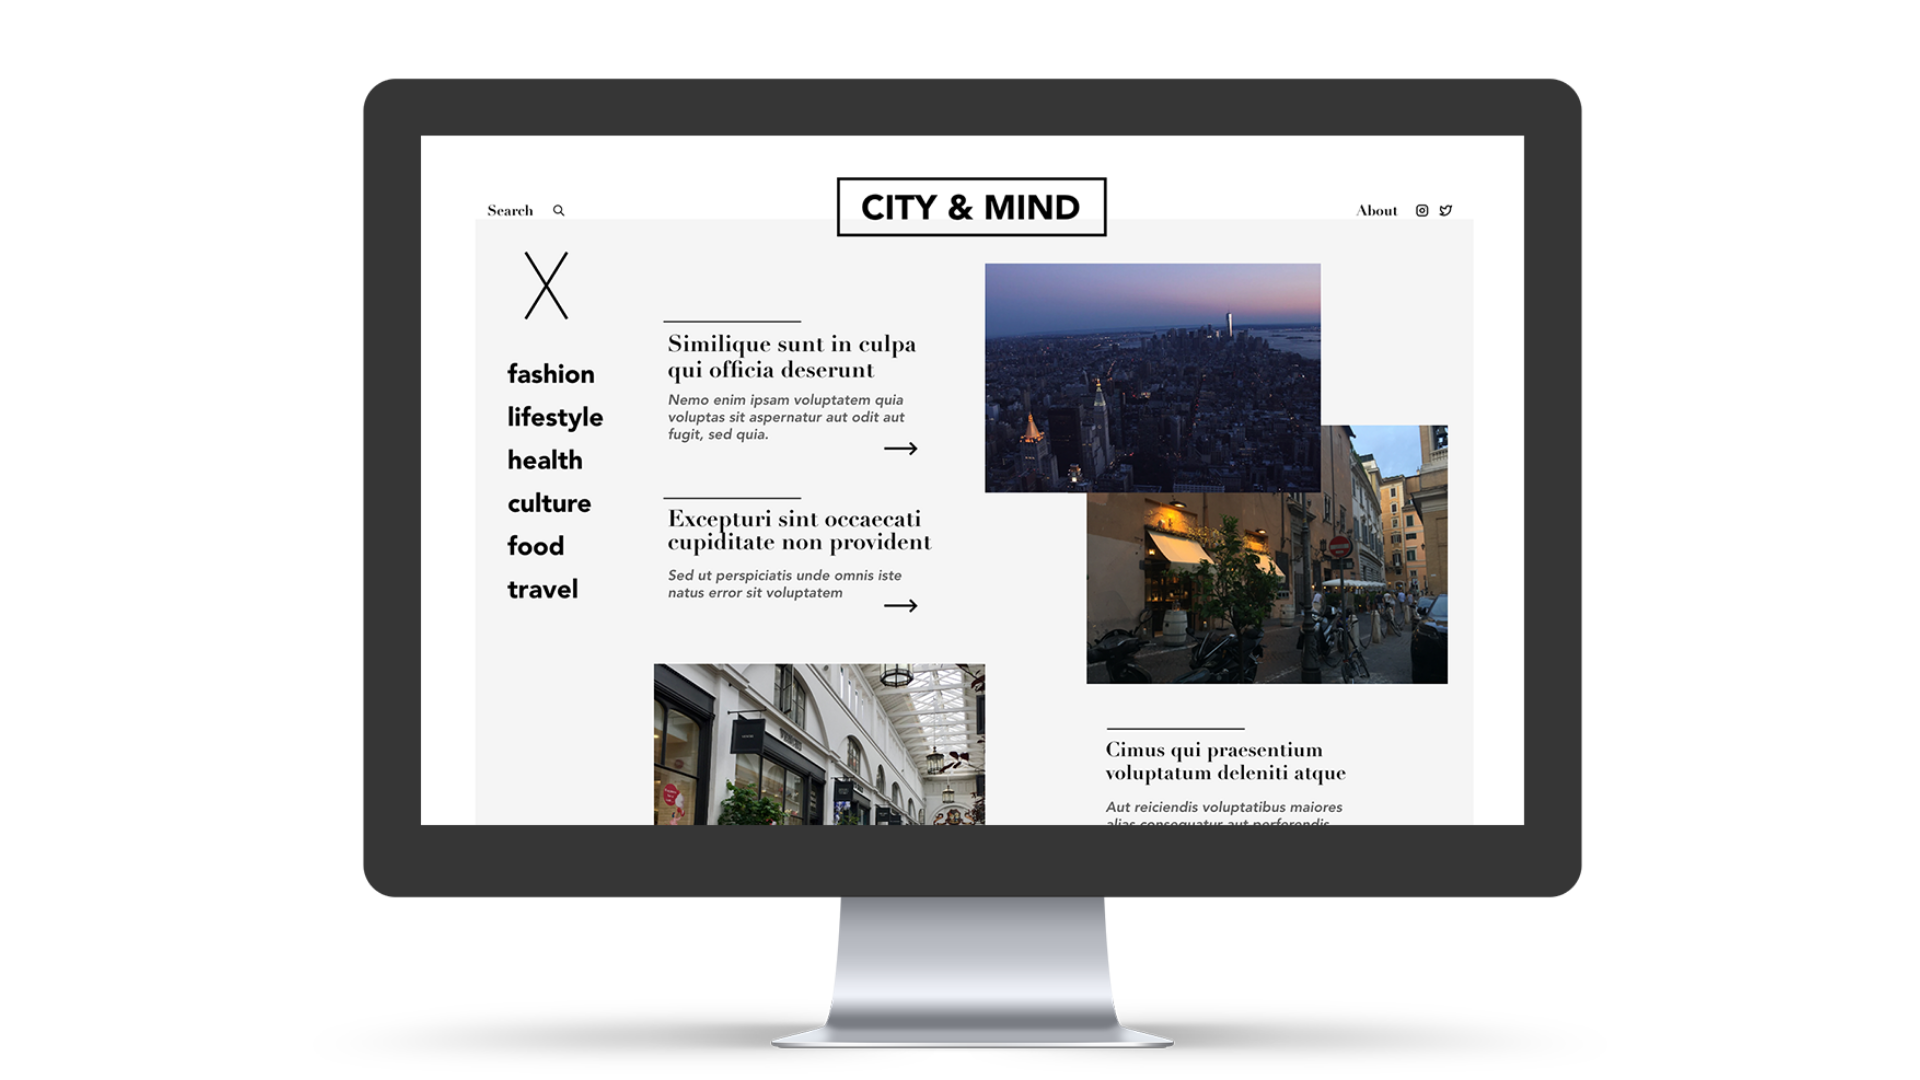
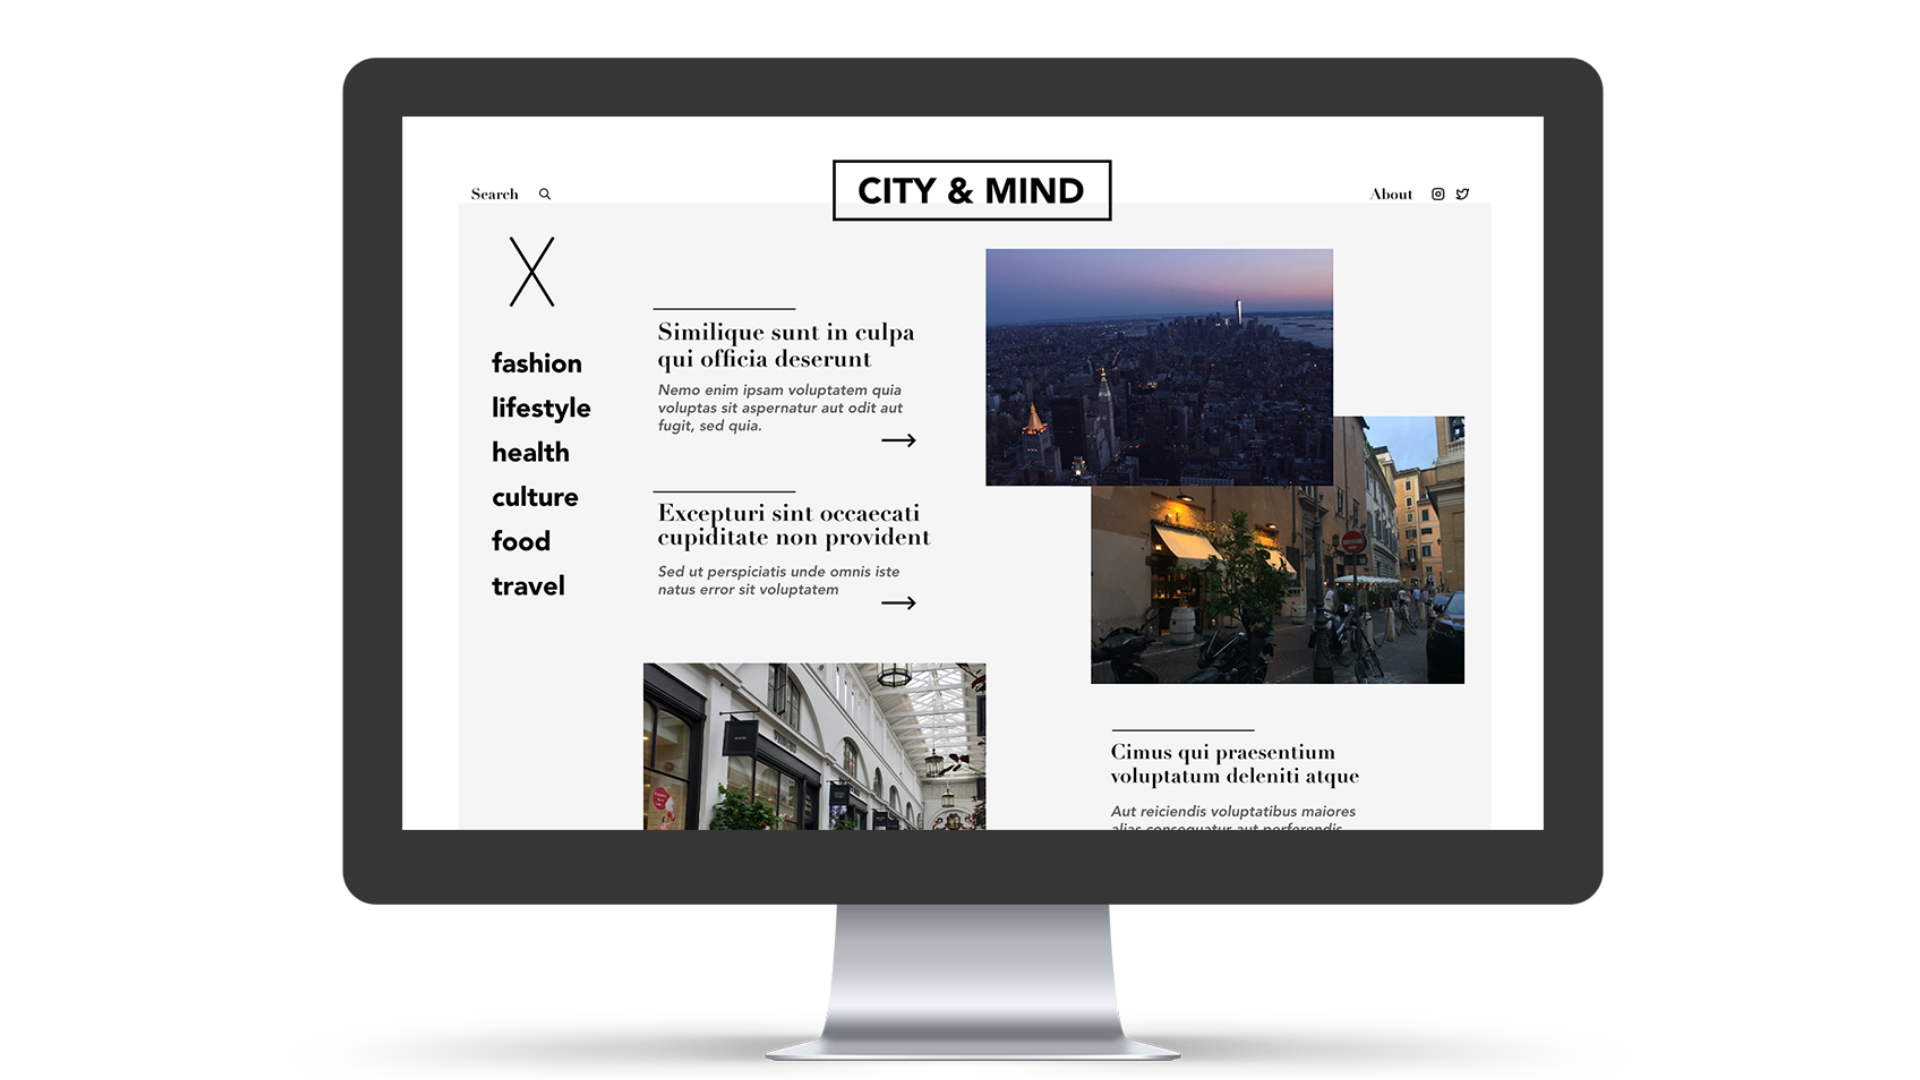
edits

diff --git a/css/style.css b/css/style.css
@@ -226,7 +226,7 @@ mark {
   #showcase h2{
     margin-left: auto;
     margin-right: auto;
-    font-size:16.5px;
+    font-size:16.3px;
     margin-bottom: 50px;
   }
   #showcase p{
